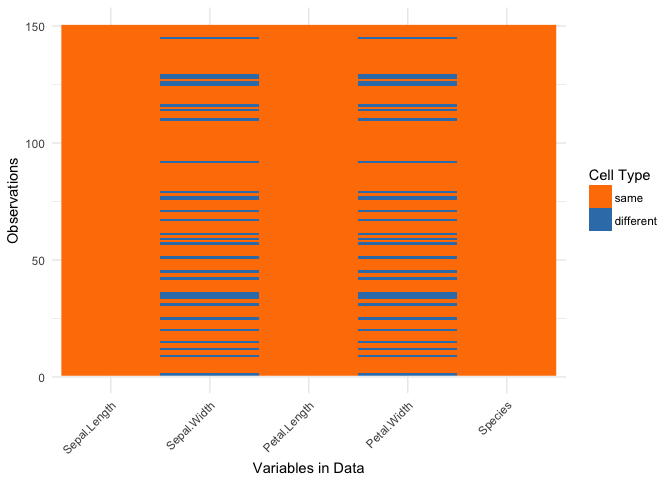
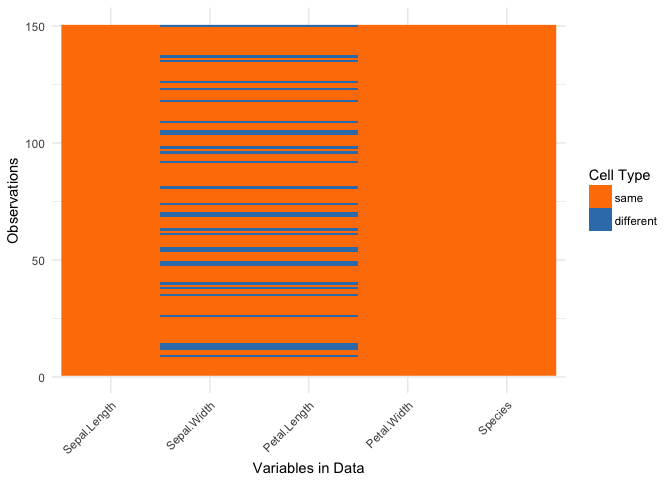
update README

diff --git a/README.md b/README.md
@@ -22,7 +22,10 @@ Initially inspired by [`csv-fingerprint`](https://github.com/setosa/csv-fingerpr
 
 The name `visdat` was chosen as I think in the future it could be integrated with [`testdat`](https://github.com/ropensci/testdat). The idea being that first you visualise your data (`visdat`), then you run tests from `testdat` to fix them.
 
-There are two main commands in the `visdat` package: - `vis_dat()` - `vis_miss()`
+There are two main commands in the `visdat` package:
+
+-   `vis_dat()`
+-   `vis_miss()`
 
 -   `vis_dat()` visualises a dataframe showing you what the classes of the columns are, and also displaying the missing data.
 
@@ -166,9 +169,8 @@ iris_diff <- iris
 iris_diff[sample(1:150, 30),sample(1:4, 2)] <- NA
 
 vis_compare(iris_diff, iris)
-#> Warning in vis_compare(iris_diff, iris): vis_compare is still in BETA!
-#> If you have suggestions or errors, post an issue at https://github.com/
-#> njtierney/visdat/issues
+#> vis_compare is still in BETA! If you have suggestions or errors,
+#>           post an issue at https://github.com/njtierney/visdat/issues
 #> Warning in if (dim(df1) != dim(df2)) {: the condition has length > 1 and
 #> only the first element will be used
 #> Warning: attributes are not identical across measure variables; they will
@@ -180,7 +182,7 @@ vis_compare(iris_diff, iris)
 
 ![](README-vis-compare-iris-1.png)
 
-Here the differences are marked in red.
+Here the differences are marked in blue.
 
 If you try and compare differences when the dimensions are different, you get an ugly error.
 
@@ -227,9 +229,8 @@ messy_df <- data.frame(var1 = messy_vector,
 ``` r
 
 vis_guess(messy_df)
-#> Warning in vis_guess(messy_df): vis_guess is still in BETA! If you have
-#> suggestions or errors, post an issue at https://github.com/njtierney/
-#> visdat/issues
+#> vis_guess is still in BETA! If you have suggestions or errors,
+#>           post an issue at https://github.com/njtierney/visdat/issues
 ```
 
 ![](README-vis-guess-messy-df-1.png)
@@ -245,7 +246,7 @@ vis_dat(messy_df)
 
 Where you'd just assume your data is wierd because it's all factors - or worse, not notice that this is a problem.
 
-At the moment `vis_guess` is very slow. Please take this into consideration when you are using it on data with more than 1000 rows. We're looking into ways of making it faster, potentially using methods from the `parallel` package, or extending the c++ code from `readr:::collectorGuess`.
+At the moment `vis_guess` is very slow. Please take this into consideration when you are using it on data with more than 1000 rows. We're looking into ways of making it faster, potentially using methods from the `parallel` package, or extending the c++ code from `readr::parse_guess`.
 
 Interactivity
 =============
@@ -267,12 +268,14 @@ This is still under development, but it is basically a faster version of doing a
 vis\_miss\_ly
 -------------
 
-This is also just brand new under development, but should prove interesting once I fix up the legend, etc.
+This is also under development, and still needs some more work on the legend, etc.
 
 ``` r
 
 vis_miss_ly(airquality)
 ```
+
+![](README-vis-miss-ly-1.png)
 
 Road Map
 ========
